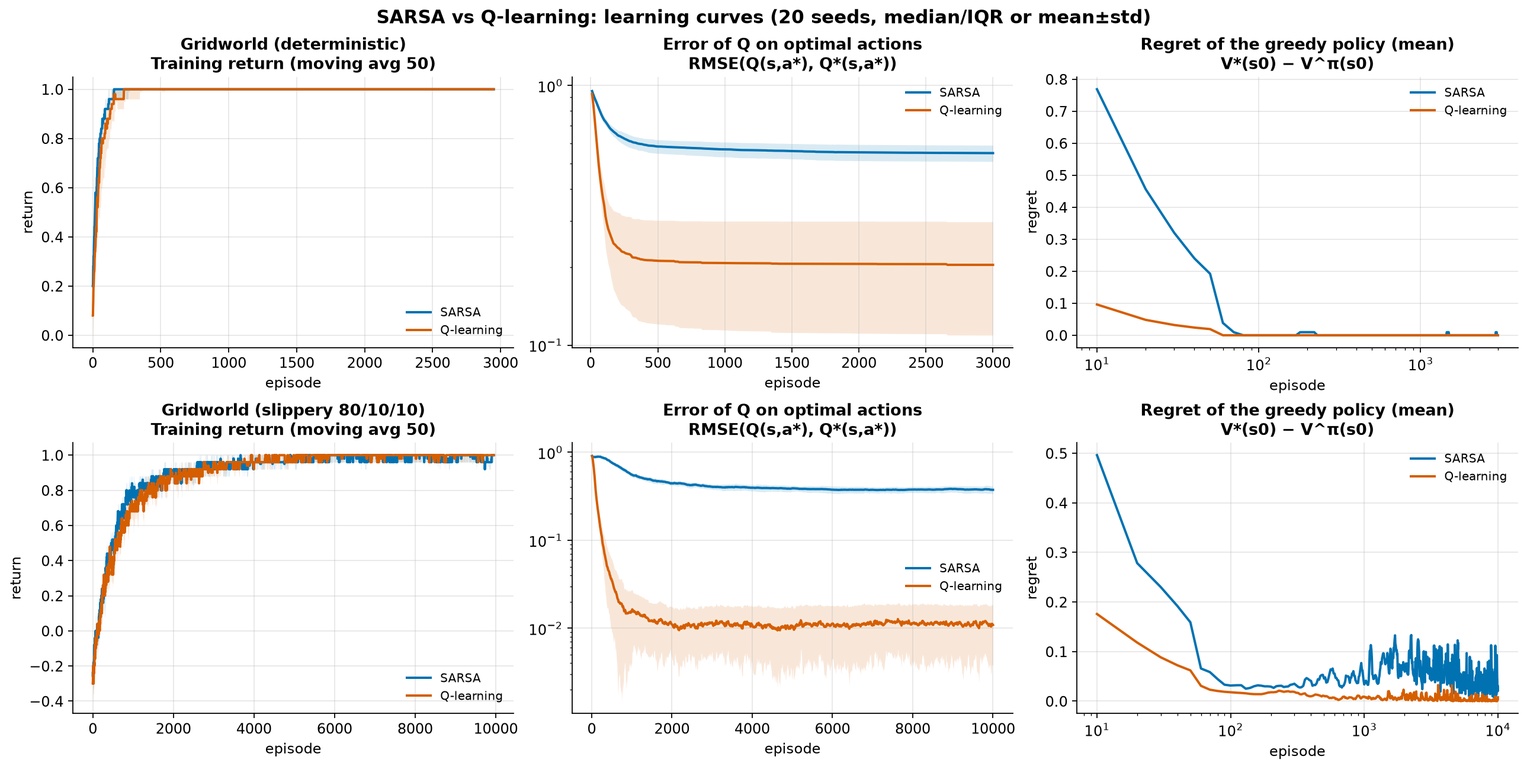
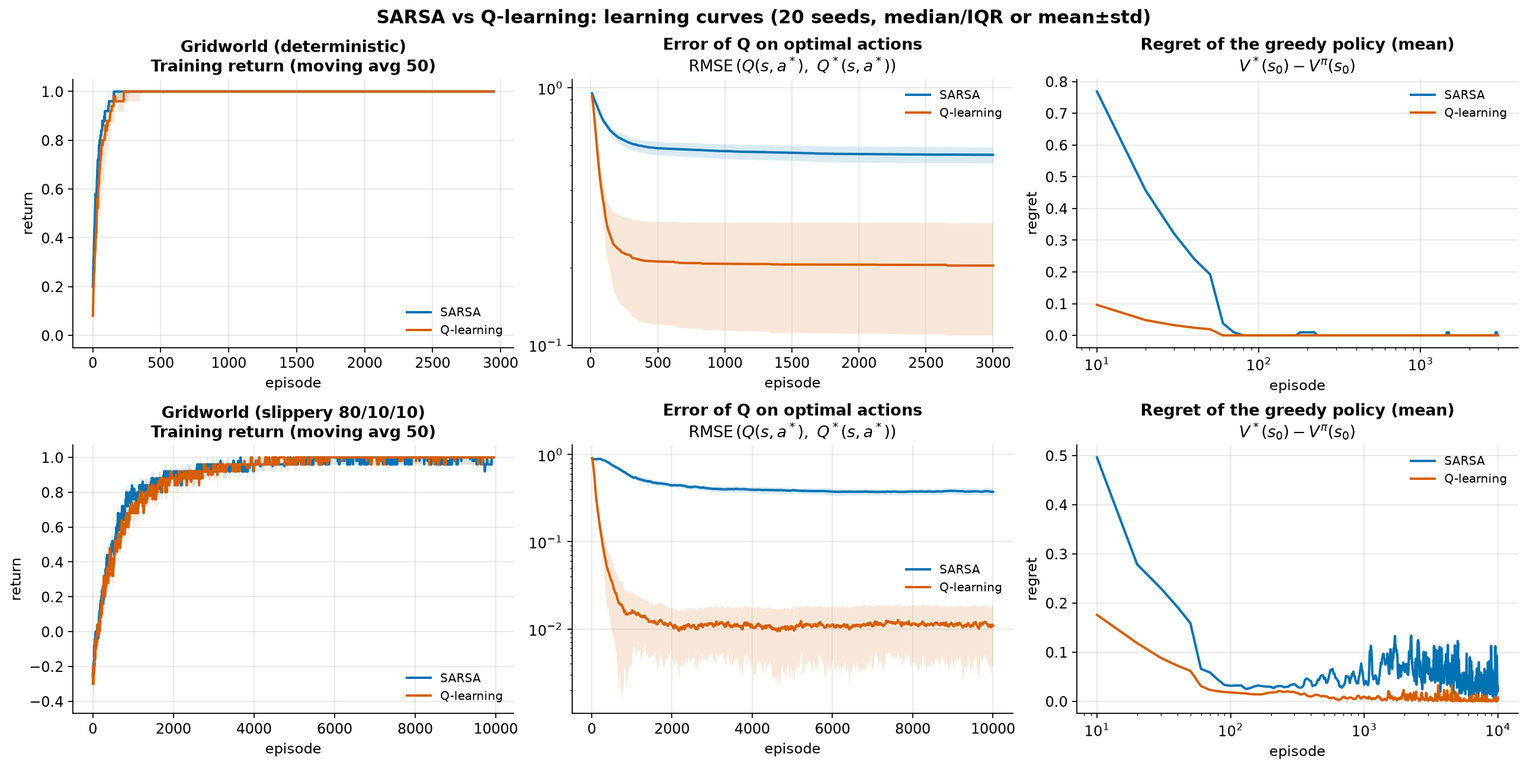
Proper maths everywhere: KaTeX in the presentation, mathtext in the figures
- presentation.html renders every formula with KaTeX; new slide with the SARSA and
  Q-learning update rules (the one differing term highlighted) and the variants
- Backup slides now show the Bellman equations, the GLIE / Robbins-Monro conditions
  and the Monte Carlo vs TD targets as display equations
- Figure titles and labels use matplotlib mathtext (V*(s0) - V^pi(s0), epsilon, alpha...)

diff --git a/presentation.html b/presentation.html
@@ -7,6 +7,9 @@
 <link rel="preconnect" href="https://fonts.googleapis.com">
 <link rel="preconnect" href="https://fonts.gstatic.com" crossorigin>
 <link href="https://fonts.googleapis.com/css2?family=Inter:wght@400;500;600;700&family=Space+Grotesk:wght@500;600;700&display=swap" rel="stylesheet">
+<link rel="stylesheet" href="https://cdn.jsdelivr.net/npm/katex@0.16.11/dist/katex.min.css">
+<script defer src="https://cdn.jsdelivr.net/npm/katex@0.16.11/dist/katex.min.js"></script>
+<script defer src="https://cdn.jsdelivr.net/npm/katex@0.16.11/dist/contrib/auto-render.min.js"></script>
 <style>
   /* ------------------------------------------------------------------ tokens */
   :root {
@@ -164,6 +167,17 @@
   #notes b { color: var(--dq); }
   aside.notes { display: none; }
 
+  /* ------------------------------------------------------------------ maths */
+  .katex { font-size: 1.08em; }
+  .nowrap { white-space: nowrap; }
+  .eq { font-size: 30px; padding: 22px 26px; border-radius: 18px; background: var(--soft); }
+  .eq .katex-display { margin: 0; text-align: left; }
+  .eq .katex-display > .katex { text-align: left; }
+  .eq-label { font-family: var(--head); font-size: 20px; font-weight: 700; margin-bottom: 6px; display: flex; gap: 10px; align-items: center; }
+  .eq-label small { font-family: var(--body); font-weight: 500; font-size: 15px; color: var(--muted); }
+  .eq-sm { font-size: 22px; }
+  .pill { display: inline-block; font: 600 13px var(--body); padding: 3px 10px; border-radius: 999px; color: #fff; }
+
   /* ------------------------------------------------------------------ print: one slide per page */
   @media print {
     @page { size: 1280px 720px; margin: 0; }
@@ -238,14 +252,38 @@
         <div class="item"><div class="icon" style="background:var(--sarsa)"><svg viewBox="0 0 24 24"><rect x="4" y="7" width="16" height="12" rx="3"/><path d="M12 3v4M9 12h.01M15 12h.01M9 16h6"/></svg></div>
           <div><h3>Model-free agents</h3><p>They only call <code>reset()</code> and <code>step()</code>, never the model.</p></div></div>
         <div class="item"><div class="icon" style="background:var(--q)"><svg viewBox="0 0 24 24"><circle cx="12" cy="12" r="8"/><circle cx="12" cy="12" r="4"/><circle cx="12" cy="12" r=".6"/></svg></div>
-          <div><h3>Exact regret</h3><p>V*(s₀) − V<sup>π</sup>(s₀), with Q* from value iteration. 0 means truly optimal.</p></div></div>
+          <div><h3>Exact regret</h3><p>\(V^*(s_0) - V^{\pi}(s_0)\), with \(Q^*\) from value iteration. \(0\) means truly optimal.</p></div></div>
         <div class="item"><div class="icon" style="background:var(--exp)"><svg viewBox="0 0 24 24"><rect x="4" y="4" width="16" height="16" rx="3"/><path d="M9 9h.01M15 15h.01M15 9h.01M9 15h.01"/></svg></div>
           <div><h3>20 seeds each</h3><p>We report the spread, not one lucky run.</p></div></div>
       </div>
     </div>
   </div>
   <div class="footer"><span>Tabular RL · Assignment 1</span><span></span></div>
-  <aside class="notes">(~35 s) Three environments: the class grid, the same grid with slippery 80/10/10 moves, and Cliff Walking from Sutton &amp; Barto. The agents never see the transition model, they only play. But we do know the model, so we compute the true optimum with value iteration and grade every learned policy exactly: <b>regret</b> is how much value the greedy policy loses from the start. Every configuration is trained with 20 seeds.</aside>
+  <aside class="notes">(~30 s) Three environments: the class grid, the same grid with slippery 80/10/10 moves, and Cliff Walking from Sutton &amp; Barto. The agents never see the transition model, they only play. But we do know the model, so we compute the true optimum with value iteration and grade every learned policy exactly: <b>regret</b> is how much value the greedy policy loses from the start. Every configuration is trained with 20 seeds.</aside>
+</section>
+
+<!-- 3 · The two update rules ============================================== -->
+<section class="slide">
+  <h2 class="title rise">SARSA vs Q-learning: one term apart</h2>
+  <div class="col" style="gap:22px">
+    <div class="eq rise d1">
+      <div class="eq-label"><span class="pill" style="background:var(--sarsa)">SARSA</span> <small>on-policy · a sample of the Bellman equation</small></div>
+      $$Q(s,a) \;\leftarrow\; Q(s,a) + \alpha \Big[\, r + \gamma\, {\color{#0072B2}\boldsymbol{Q(s',a')}} - Q(s,a) \,\Big]$$
+      <p style="font-size:16px; color:var(--muted); margin-top:4px">\(a'\) is the action it will <b>really take next</b> (\(\varepsilon\)-greedy), so it learns \(Q^{\pi_\varepsilon}\): exploration included.</p>
+    </div>
+    <div class="eq rise d2">
+      <div class="eq-label"><span class="pill" style="background:var(--q)">Q-learning</span> <small>off-policy · a sample of the Bellman optimality equation</small></div>
+      $$Q(s,a) \;\leftarrow\; Q(s,a) + \alpha \Big[\, r + \gamma\, {\color{#D55E00}\boldsymbol{\max_{a'} Q(s',a')}} - Q(s,a) \,\Big]$$
+      <p style="font-size:16px; color:var(--muted); margin-top:4px">It acts \(\varepsilon\)-greedily but learns about the <b>greedy</b> policy, so it learns \(Q^*\).</p>
+    </div>
+    <div class="row rise d3" style="gap:18px">
+      <div class="card" style="flex:1; padding:16px 20px"><div class="eq-label" style="font-size:16px; color:var(--exp)">Expected SARSA</div><div style="font-size:21px">\(\displaystyle \sum_{a'} \pi(a'\mid s')\, Q(s',a')\)</div></div>
+      <div class="card" style="flex:1; padding:16px 20px"><div class="eq-label" style="font-size:16px; color:var(--dq)">Double Q-learning</div><div style="font-size:21px">\(\displaystyle Q_2\Big(s', \operatorname*{arg\,max}_{a'} Q_1(s',a')\Big)\)</div></div>
+      <div class="card" style="flex:1; padding:16px 20px"><div class="eq-label" style="font-size:16px; color:var(--nstep)">n-step SARSA</div><div style="font-size:21px">\(\displaystyle \sum_{k=0}^{n-1} \gamma^k r_{t+k+1} + \gamma^n Q(s_{t+n},a_{t+n})\)</div></div>
+    </div>
+  </div>
+  <div class="footer"><span>Tabular RL · Assignment 1</span><span></span></div>
+  <aside class="notes">(~40 s) Both are TD methods: they nudge Q towards a target by a step of size alpha. The only difference is the highlighted term. SARSA uses the action it will actually take next, chosen epsilon-greedily, so it learns the value of the policy it follows, random moves included. Q-learning uses the max, the best next action whatever it does, so it learns the optimal Q directly. Below, the variants we also compared only change that same term: Expected SARSA averages over the next action, Double Q splits choosing and judging between two tables, and n-step waits n real rewards before bootstrapping.</aside>
 </section>
 
 <!-- 3 · Minimum requirement ================================================ -->
@@ -256,11 +294,11 @@
     <div class="col" style="gap:34px; padding-top:8px">
       <div class="stat rise d2"><div class="big" style="color:var(--exp)">20 / 20</div><div class="cap">seeds optimal for both on the deterministic grid</div></div>
       <div class="stat rise d3"><div class="big" style="color:var(--q)">19 <span style="font-size:30px; color:var(--muted)">vs</span> 15</div><div class="cap">Q-learning vs SARSA, slippery grid, default settings</div></div>
-      <div class="stat rise d4"><div class="big" style="color:var(--sarsa)">20 / 20</div><div class="cap">both, once ε → 0 and α shrinks with the visits</div></div>
+      <div class="stat rise d4"><div class="big" style="color:var(--sarsa)">20 / 20</div><div class="cap">both, once \(\varepsilon \to 0\) and \(\alpha\) shrinks with the visits</div></div>
     </div>
   </div>
   <div class="footer"><span>Tabular RL · Assignment 1</span><span></span></div>
-  <aside class="notes">(~50 s) Left: the true optimal values and policy, then what SARSA and Q-learning learned. Deterministic: both find the optimal path in all 20 seeds. Slippery: the optimum changes, next to the pit it is better to walk away from it. With default settings Q-learning gets 19 of 20 seeds right but SARSA only 15: <b>SARSA learns the value of its own exploring policy</b>, so its values near the pit are lower. When exploration fades to zero and the step size shrinks with the visits (the theory's convergence conditions) both get 20 of 20.</aside>
+  <aside class="notes">(~45 s) Left: the true optimal values and policy, then what SARSA and Q-learning learned. Deterministic: both find the optimal path in all 20 seeds. Slippery: the optimum changes, next to the pit it is better to walk away from it. With default settings Q-learning gets 19 of 20 seeds right but SARSA only 15: <b>SARSA learns the value of its own exploring policy</b>, so its values near the pit are lower. When exploration fades to zero and the step size shrinks with the visits (the theory's convergence conditions) both get 20 of 20.</aside>
 </section>
 
 <!-- 4 · Cliff ================================================================ -->
@@ -281,7 +319,7 @@
     </div>
   </div>
   <div class="footer"><span>Tabular RL · Assignment 1</span><span></span></div>
-  <aside class="notes">(~45 s) The classic Cliff Walking result. SARSA's target uses the action it really takes next, exploration included, so it keeps a row of distance from the cliff. Q-learning's target is the max: it learns the shortest path along the edge, which is optimal, but while it is still exploring it falls more often. <b>Worse return during training, yet its greedy policy is optimal in all 20 seeds.</b></aside>
+  <aside class="notes">(~40 s) The classic Cliff Walking result. SARSA's target uses the action it really takes next, exploration included, so it keeps a row of distance from the cliff. Q-learning's target is the max: it learns the shortest path along the edge, which is optimal, but while it is still exploring it falls more often. <b>Worse return during training, yet its greedy policy is optimal in all 20 seeds.</b></aside>
 </section>
 
 <!-- 5 · All algorithms ======================================================== -->
@@ -299,7 +337,7 @@
     </div>
   </div>
   <div class="footer"><span>Tabular RL · Assignment 1</span><span></span></div>
-  <aside class="notes">(~35 s) We compared six tabular methods with the same settings. The chart shows the share of states where the final greedy action is optimal. Q-learning is the most accurate in all three environments. Among the on-policy methods, Expected SARSA is the best: it averages over the next action instead of sampling it. Monte Carlo collapses in Cliff Walking: it learns from complete episodes, and with a bad early policy the episodes almost never end.</aside>
+  <aside class="notes">(~30 s) We compared six tabular methods with the same settings. The chart shows the share of states where the final greedy action is optimal. Q-learning is the most accurate in all three environments. Among the on-policy methods, Expected SARSA is the best: it averages over the next action instead of sampling it. Monte Carlo collapses in Cliff Walking: it learns from complete episodes, and with a bad early policy the episodes almost never end.</aside>
 </section>
 
 <!-- 6 · Optuna ================================================================= -->
@@ -308,14 +346,14 @@
   <div class="row" style="gap:40px; margin-bottom:34px">
     <div class="stat rise d1" style="flex:1"><div class="big" style="color:var(--q)">12 / 12</div><div class="cap">studies learn significantly faster<br>(p &lt; 0.05 on 20 held-out seeds)</div></div>
     <div class="stat rise d2" style="flex:1"><div class="big" style="color:var(--exp)">0 → 18</div><div class="cap">seeds where Expected SARSA finds<br>the optimal cliff path</div></div>
-    <div class="stat rise d3" style="flex:1"><div class="big" style="color:var(--sarsa)">8 / 10</div><div class="cap">TD settings that picked a shrinking α<br>(Robbins–Monro) on their own</div></div>
+    <div class="stat rise d3" style="flex:1"><div class="big" style="color:var(--sarsa)">8 / 10</div><div class="cap">TD settings that picked a shrinking \(\alpha\)<br>(Robbins–Monro) on their own</div></div>
   </div>
   <div class="row rise d3" style="gap:48px">
     <div class="col" style="flex:1"><div class="chart" id="chart-slip" style="height:300px"></div></div>
     <div class="col" style="flex:1"><div class="chart" id="chart-cliff" style="height:300px"></div></div>
   </div>
   <div class="legend rise d4" style="margin-top:40px; justify-content:center"><span><i style="background:#b8c2d0"></i>default</span><span><i style="background:var(--q)"></i>tuned with Optuna</span><span>· mean regret during training, log scale, lower is better</span></div>
-  <aside class="notes">(~50 s) We tuned all six algorithms in both hard environments with Optuna: 12 studies, 150 trials each, with two goals at once, <b>learn fast and end up exactly optimal</b>. Then we retrained the default and the tuned settings on 20 new seeds. All 12 learn significantly faster. Expected SARSA goes from never finding the optimal cliff path to 18 of 20 seeds. And the nice part: in 8 of 10 cases Optuna picked a step size that shrinks with the visits and exploration that fades to zero. It rediscovered the convergence conditions from theory.</aside>
+  <aside class="notes">(~45 s) We tuned all six algorithms in both hard environments with Optuna: 12 studies, 150 trials each, with two goals at once, <b>learn fast and end up exactly optimal</b>. Then we retrained the default and the tuned settings on 20 new seeds. All 12 learn significantly faster. Expected SARSA goes from never finding the optimal cliff path to 18 of 20 seeds. And the nice part: in 8 of 10 cases Optuna picked a step size that shrinks with the visits and exploration that fades to zero. It rediscovered the convergence conditions from theory.</aside>
 </section>
 
 <!-- 7 · Training lessons ======================================================== -->
@@ -324,19 +362,19 @@
   <div class="row" style="gap:24px; margin-bottom:26px">
     <div class="card rise d1" style="flex:1">
       <div class="item" style="align-items:center; margin-bottom:12px"><div class="icon" style="background:var(--exp)"><svg viewBox="0 0 24 24"><circle cx="12" cy="12" r="9"/><path d="M15.5 8.5l-2 5-5 2 2-5z"/></svg></div><h3>Explore, then stop</h3></div>
-      <p style="font-size:16px; color:var(--muted); line-height:1.45">On-policy methods only reach the optimum when ε → 0 (GLIE).</p>
+      <p style="font-size:16px; color:var(--muted); line-height:1.5">On-policy methods only reach the optimum when \(\varepsilon_k \to 0\) (GLIE).</p>
     </div>
     <div class="card rise d2" style="flex:1">
       <div class="item" style="align-items:center; margin-bottom:12px"><div class="icon" style="background:var(--sarsa)"><svg viewBox="0 0 24 24"><path d="M4 18h4v-4h4v-4h4V6h4"/></svg></div><h3>Shrink the steps</h3></div>
-      <p style="font-size:16px; color:var(--muted); line-height:1.45">α / (1 + k·N(s,a)) lets the values settle even with random moves.</p>
+      <p style="font-size:16px; color:var(--muted); line-height:1.5">\(\alpha_t = \dfrac{\alpha}{1 + k\,N(s,a)}\) lets the values settle even with random moves.</p>
     </div>
     <div class="card rise d3" style="flex:1">
       <div class="item" style="align-items:center; margin-bottom:12px"><div class="icon" style="background:var(--q)"><svg viewBox="0 0 24 24"><path d="M3 12a9 9 0 1 0 3-6.7L3 8M3 3v5h5"/></svg></div><h3>Forget bad early returns</h3></div>
-      <p style="font-size:16px; color:var(--muted); line-height:1.45">MC with 1/N got stuck at −100 in 14/20 seeds. A constant α: 0/20.</p>
+      <p style="font-size:16px; color:var(--muted); line-height:1.5">Never reaching the goal is worth <span class="nowrap">\(-\tfrac{1}{1-\gamma} = -100\)</span>. MC with \(1/N\) got stuck there in 14/20 seeds; constant \(\alpha\): 0/20.</p>
     </div>
   </div>
   <div class="figure rise d4" style="width:960px; margin:0 auto"><img src="results/figures/exp6_failure_analysis.png" alt="Per-seed returns in Cliff Walking and Double Q estimates collapsing to the -100 plateau"></div>
-  <aside class="notes">(~40 s) Three lessons about training. Exploration must fade out for on-policy methods to become optimal. The step size should shrink with the visits so the values can settle despite random moves. And the cliff taught us the last one: a policy that never reaches the goal is worth −100. <b>Monte Carlo averaging every return ever seen keeps the terrible first episodes forever</b> and gets stuck there in 14 of 20 seeds; with a constant step size it forgets them and none gets stuck. The red lines on the right are Double Q seeds stuck at that same −100.</aside>
+  <aside class="notes">(~35 s) Three lessons about training. Exploration must fade out for on-policy methods to become optimal. The step size should shrink with the visits so the values can settle despite random moves. And the cliff taught us the last one: a policy that never reaches the goal is worth −100. <b>Monte Carlo averaging every return ever seen keeps the terrible first episodes forever</b> and gets stuck there in 14 of 20 seeds; with a constant step size it forgets them and none gets stuck. The red lines on the right are Double Q seeds stuck at that same −100.</aside>
 </section>
 
 <!-- 8 · Takeaways =============================================================== -->
@@ -346,7 +384,7 @@
     <div class="col" style="flex:1.4; gap:28px">
       <div class="item rise d1" style="align-items:center"><div class="badge" style="background:var(--exp); width:52px; height:52px">1</div><p style="font-size:21px; color:#fff">SARSA and Q-learning both solve the class gridworld, deterministic and slippery</p></div>
       <div class="item rise d2" style="align-items:center"><div class="badge" style="background:var(--q); width:52px; height:52px">2</div><p style="font-size:21px; color:#fff">Q-learning learns the optimum; SARSA learns the policy it follows, so it plays safe</p></div>
-      <div class="item rise d3" style="align-items:center"><div class="badge" style="background:var(--sarsa); width:52px; height:52px">3</div><p style="font-size:21px; color:#fff">Convergence needs ε → 0 and a shrinking α, and Optuna found exactly that</p></div>
+      <div class="item rise d3" style="align-items:center"><div class="badge" style="background:var(--sarsa); width:52px; height:52px">3</div><p style="font-size:21px; color:#fff">Convergence needs \(\varepsilon \to 0\) and a shrinking \(\alpha\), and Optuna found exactly that</p></div>
       <div class="item rise d4" style="align-items:center"><div class="badge" style="background:var(--dq); width:52px; height:52px">4</div><p style="font-size:21px; color:#fff">Fully reproducible: seeded runs, one command redraws everything</p></div>
     </div>
     <div class="col rise d3" style="flex:1; align-items:center">
@@ -360,7 +398,7 @@
       <p style="font-size:14px; color:#8a9bb5; margin-top:6px">github.com/ElTiToRuiz/assignment-1</p>
     </div>
   </div>
-  <aside class="notes">(~20 s) To sum up: both algorithms solve the gridworld; Q-learning learns the optimum while SARSA learns the policy it actually follows and plays safe; convergence needs exploration and step sizes that fade, which is what Optuna chose; and everything is reproducible from the repository. Thank you, questions?</aside>
+  <aside class="notes">(~15 s) To sum up: both algorithms solve the gridworld; Q-learning learns the optimum while SARSA learns the policy it actually follows and plays safe; convergence needs exploration and step sizes that fade, which is what Optuna chose; and everything is reproducible from the repository. Thank you, questions?</aside>
 </section>
 
 <!-- Backup ======================================================================== -->
@@ -379,8 +417,8 @@
 
 <section class="slide">
   <h2 class="title rise">Dynamic programming: the answer key</h2>
-  <div class="row" style="gap:48px; align-items:flex-start">
-    <div class="rise d1" style="flex:1.2">
+  <div class="row" style="gap:36px; align-items:flex-start">
+    <div class="rise d1" style="flex:1">
       <table class="t">
         <tr><th>Environment</th><th>Value iteration<br><span style="font-weight:400; font-size:14px">sweeps</span></th><th>Policy iteration<br><span style="font-weight:400; font-size:14px">steps</span></th></tr>
         <tr><td>Deterministic grid</td><td>6</td><td>6</td></tr>
@@ -388,10 +426,12 @@
         <tr><td>Cliff Walking</td><td>15</td><td>15</td></tr>
       </table>
     </div>
-    <div class="col" style="flex:1; gap:26px">
-      <div class="item rise d2"><div class="badge" style="background:var(--sarsa)">1</div><div><h3>Value iteration</h3><p>Applies the Bellman optimality equation until V stops changing: cheap sweeps, many of them.</p></div></div>
-      <div class="item rise d3"><div class="badge" style="background:var(--q)">2</div><div><h3>Policy iteration</h3><p>Solves the Bellman equation exactly, then improves greedily: few, expensive steps.</p></div></div>
-      <div class="item rise d4"><div class="badge" style="background:var(--exp)">3</div><div><h3>Same V*</h3><p>Both agree. It is only used to grade the agents, who never see P.</p></div></div>
+    <div class="col" style="flex:1.3; gap:18px">
+      <div class="eq eq-sm rise d2" style="padding:16px 22px"><div class="eq-label"><span class="pill" style="background:var(--sarsa)">Value iteration</span> <small>Bellman optimality, many cheap sweeps</small></div>
+        $$V_{k+1}(s) = \max_a \sum_{s'} p(s'\mid s,a)\,\big[\,r + \gamma\, V_k(s')\,\big]$$</div>
+      <div class="eq eq-sm rise d3" style="padding:16px 22px"><div class="eq-label"><span class="pill" style="background:var(--q)">Policy iteration</span> <small>exact evaluation, few expensive steps</small></div>
+        $$V^{\pi} = (I - \gamma P_{\pi})^{-1}\, r_{\pi}, \qquad \pi'(s) = \arg\max_a Q^{\pi}(s,a)$$</div>
+      <p class="rise d4" style="font-size:16px; color:var(--muted); line-height:1.45">Both give the same \(V^*\). We only use it to grade the agents, who never see \(P\).</p>
     </div>
   </div>
   <div class="footer"><span>Tabular RL · Backup</span><span></span></div>
@@ -400,19 +440,28 @@
 
 <section class="slide">
   <h2 class="title rise">Convergence conditions in the slippery grid</h2>
-  <div class="figure rise d1"><img src="results/figures/exp1_convergent_schedule.png" alt="Default schedule vs GLIE plus Robbins-Monro"></div>
-  <p class="rise d2" style="font-size:18px; color:var(--muted); margin-top:26px; line-height:1.5">Dashed: default (ε ≥ 0.05, constant α). Solid: ε → 0 and α = 0.5 / (1 + 0.005·N). Both reach <b style="color:var(--ink)">20 / 20 seeds</b>; SARSA needs about 15× more episodes than Q-learning.</p>
+  <div class="row rise d1" style="gap:20px; margin-bottom:22px">
+    <div class="eq eq-sm" style="flex:1"><div class="eq-label">GLIE <small>explore less and less</small></div>$$N(s,a) \to \infty, \qquad \varepsilon_k \to 0$$</div>
+    <div class="eq eq-sm" style="flex:1"><div class="eq-label">Robbins–Monro <small>shrink, not too fast</small></div>$$\sum_t \alpha_t = \infty, \qquad \sum_t \alpha_t^2 < \infty$$</div>
+    <div class="eq eq-sm" style="flex:1"><div class="eq-label">Our choice</div>$$\alpha_t = \frac{0.5}{1 + 0.005\,N(s,a)}$$</div>
+  </div>
+  <div class="figure rise d2" style="width:1000px; margin:0 auto"><img src="results/figures/exp1_convergent_schedule.png" alt="Default schedule vs GLIE plus Robbins-Monro"></div>
+  <p class="rise d3" style="font-size:16px; color:var(--muted); margin-top:14px; line-height:1.45; text-align:center">Dashed: default (\(\varepsilon \ge 0.05\), constant \(\alpha\)). Solid: both conditions. Both reach <b style="color:var(--ink)">20 / 20 seeds</b>; SARSA needs about 15× more episodes than Q-learning.</p>
   <div class="footer"><span>Tabular RL · Backup</span><span></span></div>
   <aside class="notes">GLIE: greedy in the limit with infinite exploration. Robbins–Monro: the sum of the steps is infinite and the sum of their squares is finite.</aside>
 </section>
 
 <section class="slide">
   <h2 class="title rise">Monte Carlo vs TD, and how much to explore</h2>
-  <div class="row" style="gap:24px; margin-bottom:22px">
-    <div class="figure rise d1" style="flex:1"><img src="results/figures/exp5c_bias_variance.png" alt="Bias and variance of Monte Carlo vs TD"></div>
+  <div class="row rise d1" style="gap:20px; margin-bottom:18px">
+    <div class="eq eq-sm" style="flex:1; padding:14px 22px"><div class="eq-label" style="color:var(--mc)">Monte Carlo <small>real return: unbiased, noisy</small></div>$$G_t = r_{t+1} + \gamma\, r_{t+2} + \gamma^2 r_{t+3} + \cdots$$</div>
+    <div class="eq eq-sm" style="flex:1; padding:14px 22px"><div class="eq-label" style="color:var(--sarsa)">TD <small>bootstrap: biased early, steady</small></div>$$r_{t+1} + \gamma\, V(s_{t+1})$$</div>
+  </div>
+  <div class="row" style="gap:24px; margin-bottom:18px">
+    <div class="figure rise d2" style="flex:1"><img src="results/figures/exp5c_bias_variance.png" alt="Bias and variance of Monte Carlo vs TD"></div>
     <div class="figure rise d2" style="flex:1"><img src="results/figures/exp5a_alpha_sensitivity.png" alt="Learning-rate sensitivity"></div>
   </div>
-  <div class="figure rise d3" style="width:940px; margin:0 auto"><img src="results/figures/exp5b_exploration.png" alt="Exploration schedules"></div>
+  <div class="figure rise d3" style="width:800px; margin:0 auto"><img src="results/figures/exp5b_exploration.png" alt="Exploration schedules"></div>
   <div class="footer"><span>Tabular RL · Backup</span><span></span></div>
   <aside class="notes">Monte Carlo targets real returns: unbiased but noisy. TD bootstraps from its own estimates: biased early on, but steadier. Too small an α learns slowly, too large an α chases noise. Decaying ε gets good behaviour now and good knowledge later.</aside>
 </section>
@@ -531,8 +580,16 @@ addEventListener("click", e => {
 addEventListener("resize", fit);
 setTimeout(() => document.getElementById("help").style.opacity = 0, 6000);
 
-fit();
-show((parseInt(location.hash.slice(1), 10) || 1) - 1);
+document.addEventListener("DOMContentLoaded", () => {
+  if (window.renderMathInElement) {
+    renderMathInElement(document.body, {
+      delimiters: [{ left: "$$", right: "$$", display: true }, { left: "\\(", right: "\\)", display: false }],
+      throwOnError: false,
+    });
+  }
+  fit();
+  show((parseInt(location.hash.slice(1), 10) || 1) - 1);
+});
 </script>
 </body>
 </html>

diff --git a/experiments/exp5_training_analysis.py b/experiments/exp5_training_analysis.py
@@ -31,18 +31,18 @@ def alpha_sensitivity():
         fin = np.array([o["rmse_opt"][:, -1] for o in outs])
         for a_, v in [(ax[0], auc), (ax[1], fin)]:
             a_.errorbar(alphas, v.mean(1), v.std(1), label=algo, color=COLORS[algo], marker="o", capsize=3, lw=1.8)
-    ax[0].set(xscale="log", xlabel="alpha", ylabel="mean regret", title="Speed: mean regret during training")
-    ax[1].set(xscale="log", yscale="log", xlabel="alpha", ylabel="RMSE",
-              title="Accuracy: final RMSE of Q on optimal actions")
+    ax[0].set(xscale="log", xlabel=r"$\alpha$", ylabel="mean regret", title="Speed: mean regret during training")
+    ax[1].set(xscale="log", yscale="log", xlabel=r"$\alpha$", ylabel="RMSE",
+              title=r"Accuracy: final RMSE of $Q$ on optimal actions")
     ax[0].legend()
-    fig.suptitle("Learning-rate sensitivity (slippery gridworld, 10 seeds): too small = slow, too large = noisy")
+    fig.suptitle(r"Learning-rate sensitivity $\alpha$ (slippery gridworld, 10 seeds): too small = slow, too large = noisy")
     save(fig, "exp5a_alpha_sensitivity.png")
 
 
 def exploration():
     """Exploring more means worse returns now but better knowledge later. Decaying eps gets both."""
-    schedules = {"constant ε=0.01": (0.01, 0.01, 1.0), "constant ε=0.1": (0.1, 0.1, 1.0),
-                 "constant ε=0.3": (0.3, 0.3, 1.0), "decay 1 → 0.05": (1.0, 0.05, 0.998)}
+    schedules = {r"constant $\varepsilon=0.01$": (0.01, 0.01, 1.0), r"constant $\varepsilon=0.1$": (0.1, 0.1, 1.0),
+                 r"constant $\varepsilon=0.3$": (0.3, 0.3, 1.0), r"decay $1 \to 0.05$": (1.0, 0.05, 0.998)}
     cmap = plt.get_cmap("plasma")
     fig, ax = plt.subplots(1, 3, figsize=(17, 4.5), layout="constrained")
     for k, (name, sch) in enumerate(schedules.items()):
@@ -57,7 +57,7 @@ def exploration():
     for a_ in ax:
         a_.set_xlabel("episode")
     ax[0].legend()
-    fig.suptitle("Exploration–exploitation trade-off: Q-learning with different ε schedules (slippery gridworld)")
+    fig.suptitle(r"Exploration–exploitation trade-off: Q-learning with different $\varepsilon$ schedules (slippery gridworld)")
     save(fig, "exp5b_exploration.png")
 
 
@@ -73,10 +73,10 @@ def bias_variance():
         ax[0].plot(snap_x(o), q.mean(0) - target, label=algo, color=COLORS[algo], lw=1.8)
         ax[1].plot(snap_x(o), q.std(0), label=algo, color=COLORS[algo], lw=1.8)
     ax[0].axhline(0, color="black", lw=.8)
-    ax[0].set(xlabel="episode", title="Bias: mean over seeds of Q(s0,a*) − Q*(s0,a*)")
-    ax[1].set(xlabel="episode", yscale="log", title="Variance: std over seeds of Q(s0,a*)")
+    ax[0].set(xlabel="episode", title=r"Bias: mean over seeds of $Q(s_0,a^*) - Q^*(s_0,a^*)$")
+    ax[1].set(xlabel="episode", yscale="log", title=r"Variance: std over seeds of $Q(s_0,a^*)$")
     ax[0].legend()
-    fig.suptitle("Monte Carlo vs TD (30 seeds, constant ε=0.2): MC targets the ε-greedy return, TD bootstraps")
+    fig.suptitle(r"Monte Carlo vs TD (30 seeds, constant $\varepsilon=0.2$): MC targets the $\varepsilon$-greedy return, TD bootstraps")
     save(fig, "exp5c_bias_variance.png")
 
 

diff --git a/experiments/exp1_main.py b/experiments/exp1_main.py
@@ -26,7 +26,7 @@ def values_and_learning_curves(rows):
     for i, env_name in enumerate(ENVS):
         spec = make_spec(env_name)
         outs = {a: train_default(a, env_name) for a in ALGOS}
-        plot_value_policy(axes_p[i, 0], spec, outs["SARSA"]["Q_star"], f"{ENV_NAMES[env_name]}\nOptimal Q* (value iteration)")
+        plot_value_policy(axes_p[i, 0], spec, outs["SARSA"]["Q_star"], f"{ENV_NAMES[env_name]}\n" + r"Optimal $Q^*$ (value iteration)")
         for j, a in enumerate(ALGOS):
             o = outs[a]
             plot_value_policy(axes_p[i, j + 1], spec, o["Q"].mean(0), f"{a}\n(mean Q over {len(o['Q'])} seeds)")
@@ -35,8 +35,8 @@ def values_and_learning_curves(rows):
             plot_band(axes_c[i, 1], o["rmse_opt"], a, COLORS[a], x=snap_x(o))
             axes_c[i, 2].plot(snap_x(o), smooth(o["regret"].mean(0), 5), color=COLORS[a], label=a, lw=1.8)
         axes_c[i, 0].set(title=f"{ENV_NAMES[env_name]}\nTraining return (moving avg 50)", ylabel="return")
-        axes_c[i, 1].set(title="Error of Q on optimal actions\nRMSE(Q(s,a*), Q*(s,a*))", yscale="log")
-        axes_c[i, 2].set(title="Regret of the greedy policy (mean)\nV*(s0) − V^π(s0)", ylabel="regret", xscale="log")
+        axes_c[i, 1].set(title="Error of Q on optimal actions\n" + r"$\mathrm{RMSE}\,(Q(s,a^*),\ Q^*(s,a^*))$", yscale="log")
+        axes_c[i, 2].set(title="Regret of the greedy policy (mean)\n" + r"$V^*(s_0) - V^{\pi}(s_0)$", ylabel="regret", xscale="log")
         for ax in axes_c[i]:
             ax.set_xlabel("episode")
             ax.legend()
@@ -60,14 +60,14 @@ def convergent_schedule(rows):
             axes[0].plot(x, 100 * smooth((out["regret"] < 1e-9).mean(0), 10), ls, color=COLORS[a], lw=1.8, label=f"{a}, {tag}")
             axes[1].plot(x, smooth(out["regret"].mean(0), 10), ls, color=COLORS[a], lw=1.8, label=f"{a}, {tag}")
             axes[2].plot(x, out["rmse_opt"].mean(0), ls, color=COLORS[a], lw=1.8, label=f"{a}, {tag}")
-    axes[0].set(title="Seeds whose greedy policy is exactly π* (%)", ylabel="% of 20 seeds", ylim=(0, 105))
+    axes[0].set(title=r"Seeds whose greedy policy is exactly $\pi^*$ (%)", ylabel="% of 20 seeds", ylim=(0, 105))
     axes[1].set(title="Regret of the greedy policy (mean)", yscale="log")
     axes[2].set(title="RMSE of Q on optimal actions (mean)", yscale="log")
     for ax in axes:
         ax.set(xlabel="episode", xscale="log")
     axes[0].legend(loc="upper left")
-    fig.suptitle("Slippery gridworld: default schedule (dashed, ε_min=0.05, constant α) vs "
-                 "convergence conditions (solid, GLIE ε→0 + Robbins–Monro α)")
+    fig.suptitle(r"Slippery gridworld: default schedule (dashed, $\varepsilon_{\min}=0.05$, constant $\alpha$) vs "
+                 r"convergence conditions (solid, GLIE $\varepsilon\to 0$ + Robbins–Monro $\alpha$)")
     save(fig, "exp1_convergent_schedule.png")
 
 

diff --git a/experiments/exp6_failure_analysis.py b/experiments/exp6_failure_analysis.py
@@ -61,8 +61,9 @@ def main():
                      "greedy regret (median seed)": round(abs(float(np.median(o["regret"][:, -1]))), 2),
                      "seeds with optimal greedy policy": f"{int((o['regret'][:, -1] < 1e-6).sum())}/{len(bad)}"})
     ax[0].set_yscale("log")
-    ticks = ["Monte Carlo\n1/N (class)", "MC\nconstant α=0.1", "MC α=0.1\n+ exploring starts", "Double Q\nα=0.5",
-             "Double Q\nα=0.1", "SARSA α=0.5\n(reference)", "Q-learning α=0.5\n(reference)"]
+    ticks = ["Monte Carlo\n$1/N$ (class)", "MC\nconstant $\\alpha=0.1$", "MC $\\alpha=0.1$\n+ exploring starts",
+             "Double Q\n$\\alpha=0.5$", "Double Q\n$\\alpha=0.1$", "SARSA $\\alpha=0.5$\n(reference)",
+             "Q-learning $\\alpha=0.5$\n(reference)"]
     ax[0].set_xticks(range(len(VARIANTS)), ticks, fontsize=9)
     ax[0].set(ylabel="cost = −return (log, lower is better)",
               title="Per-seed online return, last 100 episodes  (✕ = stuck in loops, bar = median)")
@@ -74,12 +75,12 @@ def main():
         ax[1].plot(snap_x(o), q, color="#b2182b" if b else COLORS["Double Q-learning"], lw=1.6 if b else .8,
                    alpha=.95 if b else .5)
     ax[1].axhline(plateau, ls="--", color="black", lw=1)
-    ax[1].text(snap_x(o)[-1], plateau + 3, "−1/(1−γ) = −100: value of never reaching the goal", ha="right", fontsize=9)
+    ax[1].text(snap_x(o)[-1], plateau + 3, r"$-1/(1-\gamma) = -100$: value of never reaching the goal", ha="right", fontsize=9)
     ax[1].axhline(o["Q_star"][spec.start_state].max(), ls=":", color="green", lw=1.2)
-    ax[1].text(snap_x(o)[-1], o["Q_star"][spec.start_state].max() + 3, "Q*(s0, a*)", ha="right", fontsize=9, color="green")
-    ax[1].set(xlabel="episode", ylabel="Q(s0, a*)", ylim=(-130, 0),
-              title=f"Double Q α=0.5: Q at the start state per seed (red = the {int(bad.sum())} stuck seeds)")
-    fig.suptitle("Cliff Walking failure analysis: estimates collapse to the −100 'never arrive' plateau")
+    ax[1].text(snap_x(o)[-1], o["Q_star"][spec.start_state].max() + 3, r"$Q^*(s_0, a^*)$", ha="right", fontsize=9, color="green")
+    ax[1].set(xlabel="episode", ylabel=r"$Q(s_0, a^*)$", ylim=(-130, 0),
+              title=rf"Double Q $\alpha=0.5$: $Q$ at the start state per seed (red = the {int(bad.sum())} stuck seeds)")
+    fig.suptitle(r"Cliff Walking failure analysis: estimates collapse to the $-100$ 'never arrive' plateau")
     save(fig, "exp6_failure_analysis.png")
     save_table(pd.DataFrame(rows), "exp6_failure_analysis")
 

diff --git a/experiments/exp4_optuna.py b/experiments/exp4_optuna.py
@@ -86,9 +86,9 @@ def pareto_figure(studies, envs, algos):
             for axis in (ax.xaxis, ax.yaxis):
                 axis.set_minor_formatter(NullFormatter())
             if i == len(envs) - 1:
-                ax.set_xlabel("speed: mean regret (0 at 1e-5)")
+                ax.set_xlabel(r"speed: mean regret (0 at $10^{-5}$)")
             if j == 0:
-                ax.set_ylabel("exactness: final regret (0 at 1e-5)")
+                ax.set_ylabel(r"exactness: final regret (0 at $10^{-5}$)")
     axes[0, 0].legend(fontsize=7, loc="lower right")
     fig.suptitle("Optuna multi-objective search (TPE): every trial, Pareto front, default and chosen configuration")
     save(fig, "exp4_pareto.png")
@@ -150,7 +150,7 @@ def comparison(studies, envs, algos):
                 ax.set(title=f"{ENV_NAMES[env]}: mean regret on 20 held-out seeds (95% CI)",
                        ylabel="normalised regret (lower = faster)")
             else:
-                ax.set(ylim=(0, 105), title="Seeds whose final greedy policy is exactly π*", ylabel="% of seeds")
+                ax.set(ylim=(0, 105), title=r"Seeds whose final greedy policy is exactly $\pi^*$", ylabel="% of seeds")
             ax.legend(loc="upper left")
     fig.suptitle("Default vs Optuna-tuned hyper-parameters (permutation test: * p<0.05, ** p<0.01, *** p<0.001)")
     save(fig, "exp4_default_vs_tuned.png")

diff --git a/experiments/exp3_cliff_walking.py b/experiments/exp3_cliff_walking.py
@@ -35,9 +35,9 @@ def main():
         plot_band(ax1, moving_average(o["returns"], 20), a, COLORS[a], robust=True)
         plot_band(ax2, o["regret"], a, COLORS[a], x=snap_x(o), robust=True, floor=1e-3)
     ax1.set(ylim=(-120, 0), xlabel="episode", ylabel="return",
-            title=f"Online return while exploring (eps={CONFIG['cliff_walking']['eps'][0]})\nSARSA is better: it avoids the edge")
-    ax2.set(yscale="log", xlabel="episode", ylabel="regret (0 drawn at 1e-3)",
-            title="Regret of the greedy (eps=0) policy\nQ-learning is better: it learns the optimal path")
+            title=rf"Online return while exploring ($\varepsilon={CONFIG['cliff_walking']['eps'][0]}$)" + "\nSARSA is better: it avoids the edge")
+    ax2.set(yscale="log", xlabel="episode", ylabel=r"regret (0 drawn at $10^{-3}$)",
+            title=r"Regret of the greedy ($\varepsilon=0$) policy" + "\nQ-learning is better: it learns the optimal path")
     ax1.legend(); ax2.legend()
     fig.suptitle("Cliff Walking: on-policy (SARSA) vs off-policy (Q-learning)")
     save(fig, "exp3_cliff_walking.png")

diff --git a/experiments/exp2_compare_all.py b/experiments/exp2_compare_all.py
@@ -15,7 +15,7 @@ from .common import ALGOS, ENVS, save_table, summary_row, train_default
 def bars_figure(all_outs):
     """Where every algorithm ends after training, all environments side by side."""
     metrics = [("match", "Optimal greedy actions (%)", 100, False),
-               ("regret", "Regret of greedy policy at s0", 1, True),
+               ("regret", r"Regret of the greedy policy at $s_0$", 1, True),
                ("rmse_opt", "RMSE of Q on optimal actions", 1, True)]
     fig, axes = plt.subplots(1, 3, figsize=(18, 5.2), layout="constrained")
     w = 0.8 / len(ALGOS)
